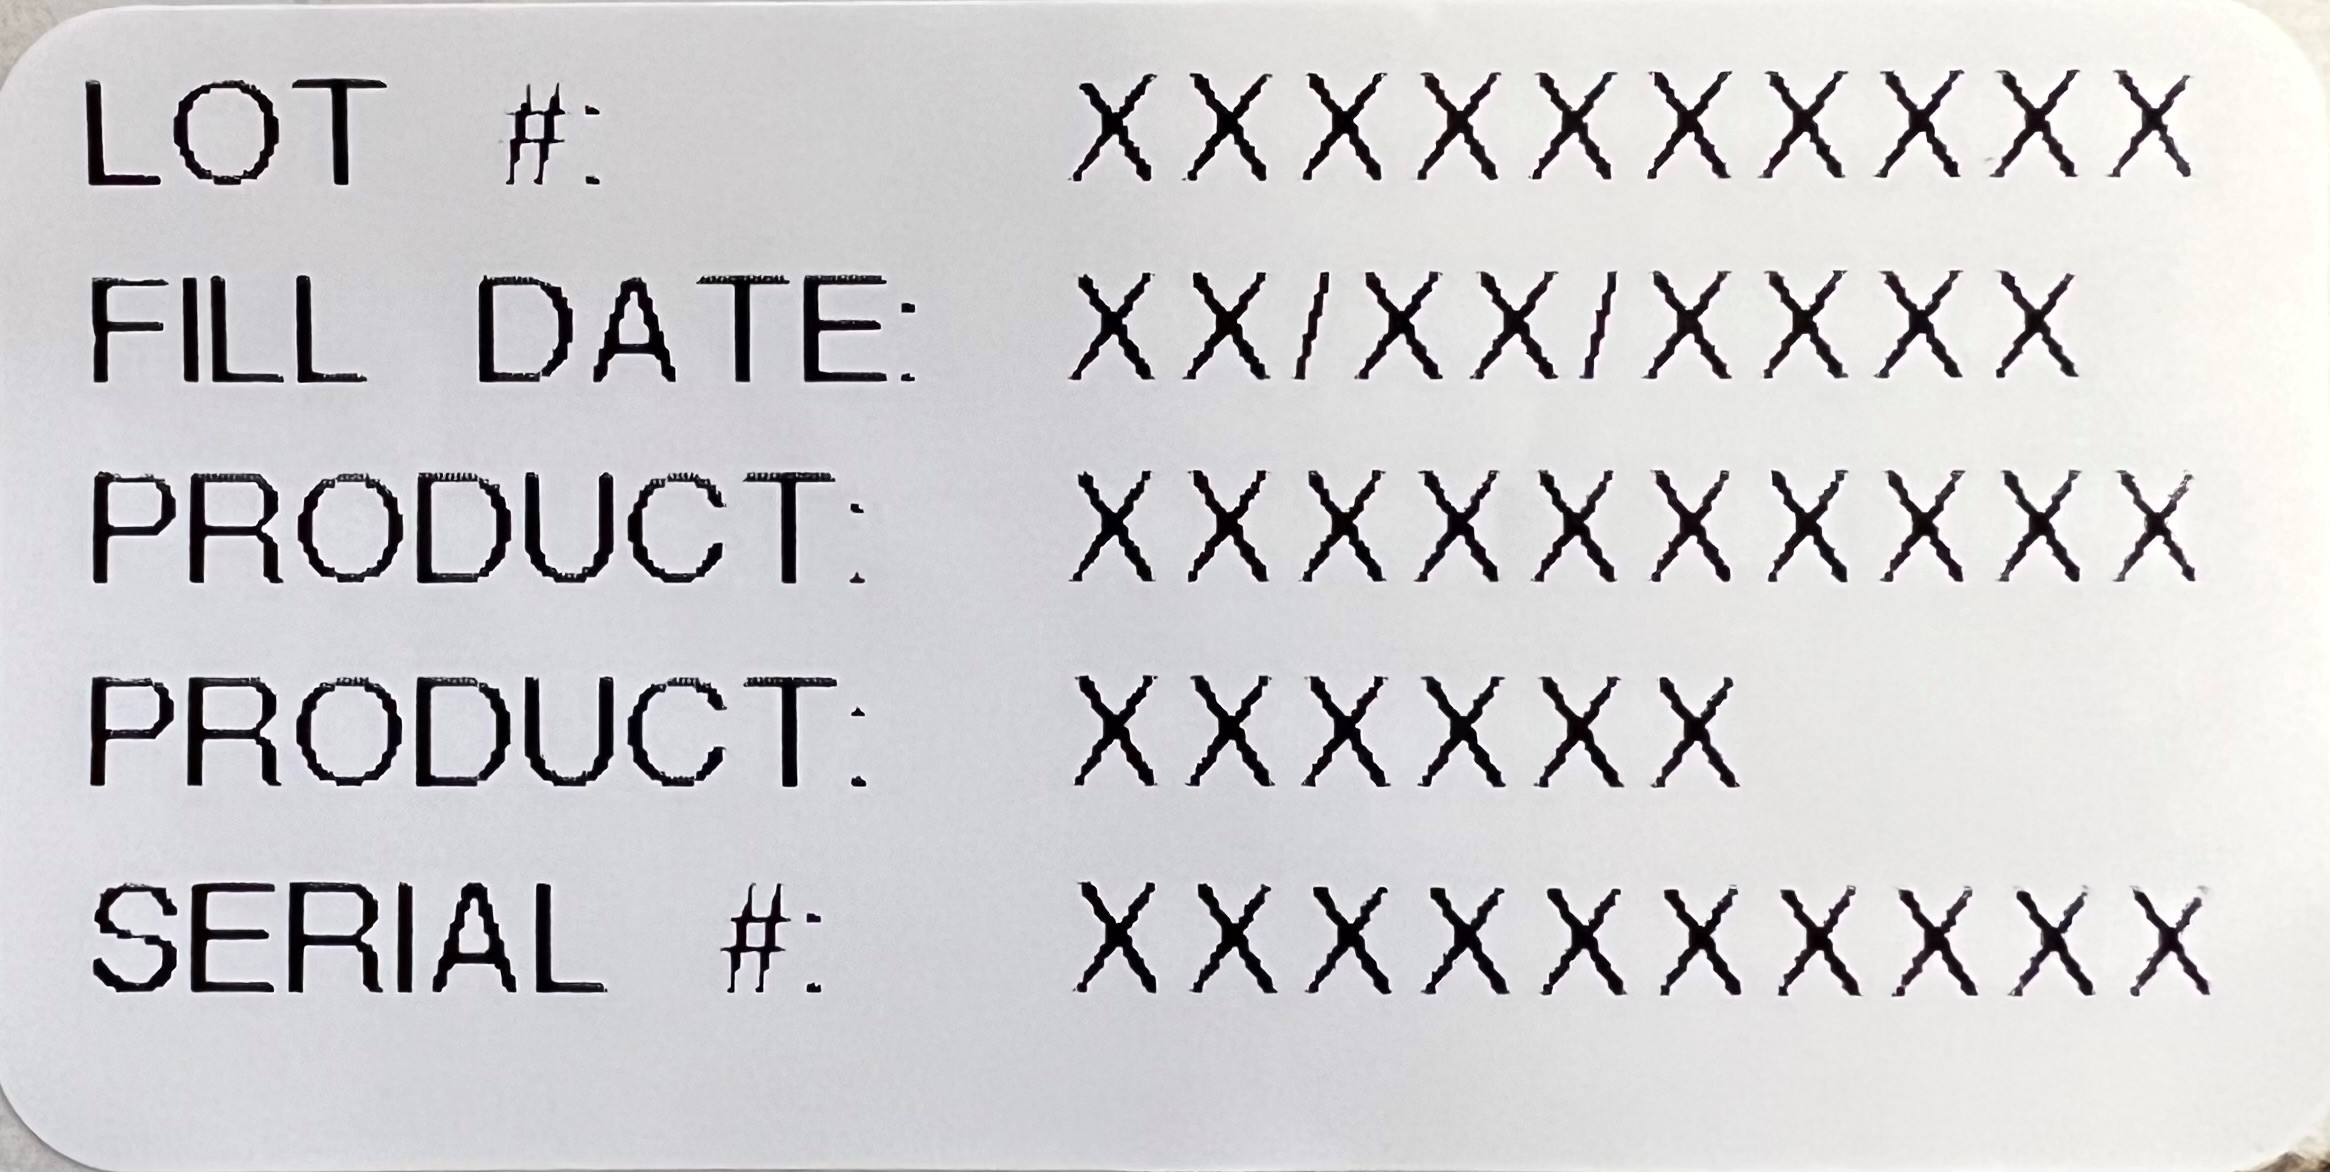
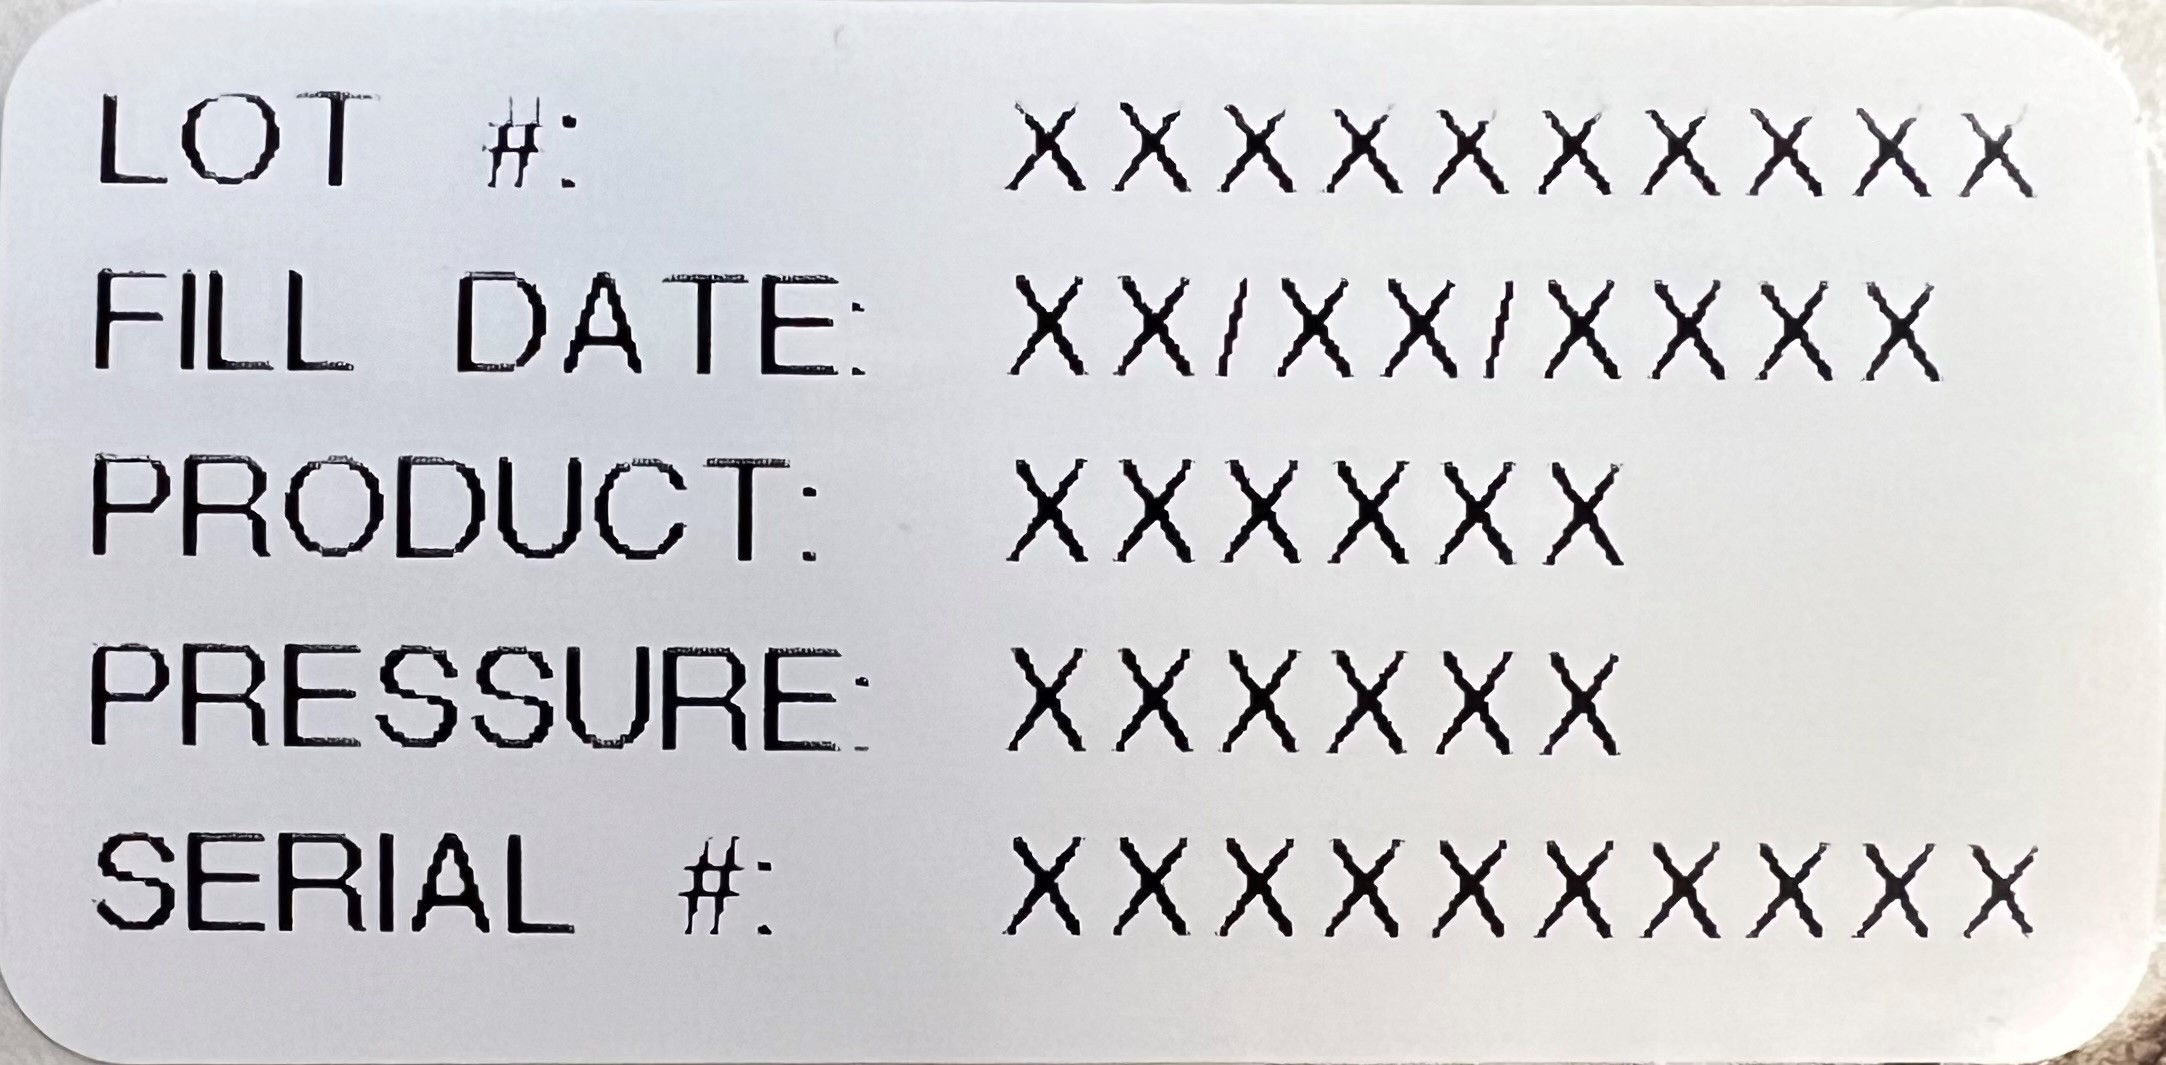
Started to test out integrations into the program directly from an excel file. Also swapped the picture of the production label example as the last version was incorrect.

diff --git a/SATO2x1LabelPrintProgram/ProductionLabelForm.cs b/SATO2x1LabelPrintProgram/ProductionLabelForm.cs
@@ -1,7 +1,9 @@
 using SATOPrinterAPI;
+//using Excel = Microsoft.Office.Interop.Excel;
 using System;
 using System.Text;
 using System.Windows.Forms;
+using System.Drawing;
 
 namespace SATO2x1LabelPrintProgram
 {
@@ -63,6 +65,39 @@ namespace SATO2x1LabelPrintProgram
                     serialTextBox.Text
                 };
 
+            /*string serial = serialTextBox.Text;
+            string[] data;
+            string file;
+            file = string.Format(@"\\mgp199\Engineering\2-Current Employees\JESCHKE\SATO Printer Programs\{0} - 745219 16.xlsx", serial);
+            Excel.Application excelApp = new Excel.Application();
+            Excel.Workbook workbook = excelApp.Workbooks.Open(file);
+            Excel.Worksheet worksheet = workbook.Sheets[1];
+            Excel.Range range = worksheet.UsedRange;
+
+            //Fill Date
+            data = range.Cells[12, 3].Value;
+            //Pressure
+            data += range.Cells[14, 3].Value;
+            //Lot Number
+            data += range.Cells[5, 3].Value;
+            //Product
+            if (range.Cells[5,8].Value != "" && range.Cells[5, 8].Value != null)
+            {
+                data += range.Cells[5, 6].Value;
+            }
+            else if (range.Cells[7, 8].Value != "" && range.Cells[7, 8].Value != null)
+            {
+                data += range.Cells[7, 6].Value;
+            }
+            else if (range.Cells[9, 8].Value != "" && range.Cells[9, 8].Value != null)
+            {
+                data += range.Cells[9, 6].Value;
+            }
+            else if (range.Cells[11, 8].Value != "" && range.Cells[11, 8].Value != null)
+            {
+                data += range.Cells[11, 6].Value;
+            }
+            */
             string quantity = printQuantityTextBox.Text;
 
             string sbpl = string.Format(
@@ -76,7 +111,7 @@ namespace SATO2x1LabelPrintProgram
                             "\u001bH025\u001bV030\u001bRDB00,P10,P10,LOT #:\u001bH195\u001bV030\u001bRDB00,P10,P10,{0}" +
                             "\u001bH025\u001bV065\u001bRDB00,P10,P10,FILL DATE:\u001bH195\u001bV065\u001bRDB00,P10,P10,{1}" +
                             "\u001bH025\u001bV100\u001bRDB00,P10,P10,PRODUCT:\u001bH195\u001bV100\u001bRDB00,P10,P10,{2}" +
-                            "\u001bH025\u001bV135\u001bRDB00,P10,P10,PRODUCT:\u001bH195\u001bV135\u001bRDB00,P10,P10,{3}" +
+                            "\u001bH025\u001bV135\u001bRDB00,P10,P10,PRESSURE:\u001bH195\u001bV135\u001bRDB00,P10,P10,{3}" +
                             "\u001bH025\u001bV170\u001bRDB00,P10,P10,SERIAL #:\u001bH195\u001bV170\u001bRDB00,P10,P10,{4}" +
                             "\u001bQ{4}\u001bZ",
                             data[0], data[1], data[2], data[3], data[4], quantity);
@@ -124,6 +159,13 @@ namespace SATO2x1LabelPrintProgram
                 ExceptionForm exceptionForm = new ExceptionForm(ex);
                 exceptionForm.ShowDialog();
             }
+
+            // Close the workbook and release resources
+            //workbook.Close();
+            //excelApp.Quit();
+            //System.Runtime.InteropServices.Marshal.ReleaseComObject(worksheet);
+            //System.Runtime.InteropServices.Marshal.ReleaseComObject(workbook);
+            //System.Runtime.InteropServices.Marshal.ReleaseComObject(excelApp);
 
         }
 
